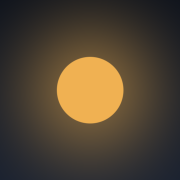
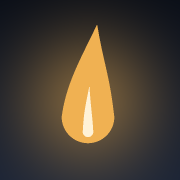
アイコンを炎に描き直す
灯り色の丸だと何のアプリか分からなかったので、細長い炎に。
先端をわずかに右へ傾け、芯を根元に置いて、60px前後でも炎と読めるようにした。
64pxを足してタブのfaviconにも使う。sw.jsのキャッシュ名を上げて古い版を捨てる。

Changed region(s): [[0.3056, 0.1389, 0.6944, 0.8056]]

diff --git a/index.html b/index.html
@@ -12,6 +12,7 @@
 <meta name="apple-mobile-web-app-status-bar-style" content="black-translucent">
 <meta name="apple-mobile-web-app-title" content="七日の灯">
 <link rel="apple-touch-icon" href="./icons/icon-180.png">
+<link rel="icon" type="image/png" sizes="64x64" href="./icons/icon-64.png">
 <link rel="preconnect" href="https://fonts.googleapis.com">
 <link rel="preconnect" href="https://fonts.gstatic.com" crossorigin>
 <link rel="stylesheet" href="https://fonts.googleapis.com/css2?family=Zen+Kaku+Gothic+New:wght@400;500;700&display=swap">

diff --git a/sw.js b/sw.js
@@ -1,5 +1,5 @@
 // ネット優先・キャッシュ退避。圏外でも開ける状態を保ちつつ、更新は次回起動で入る。
-const CACHE = "nanoka-v1";
+const CACHE = "nanoka-v2";
 self.addEventListener("install", e => self.skipWaiting());
 self.addEventListener("activate", e => e.waitUntil((async () => {
   const names = await caches.keys();
